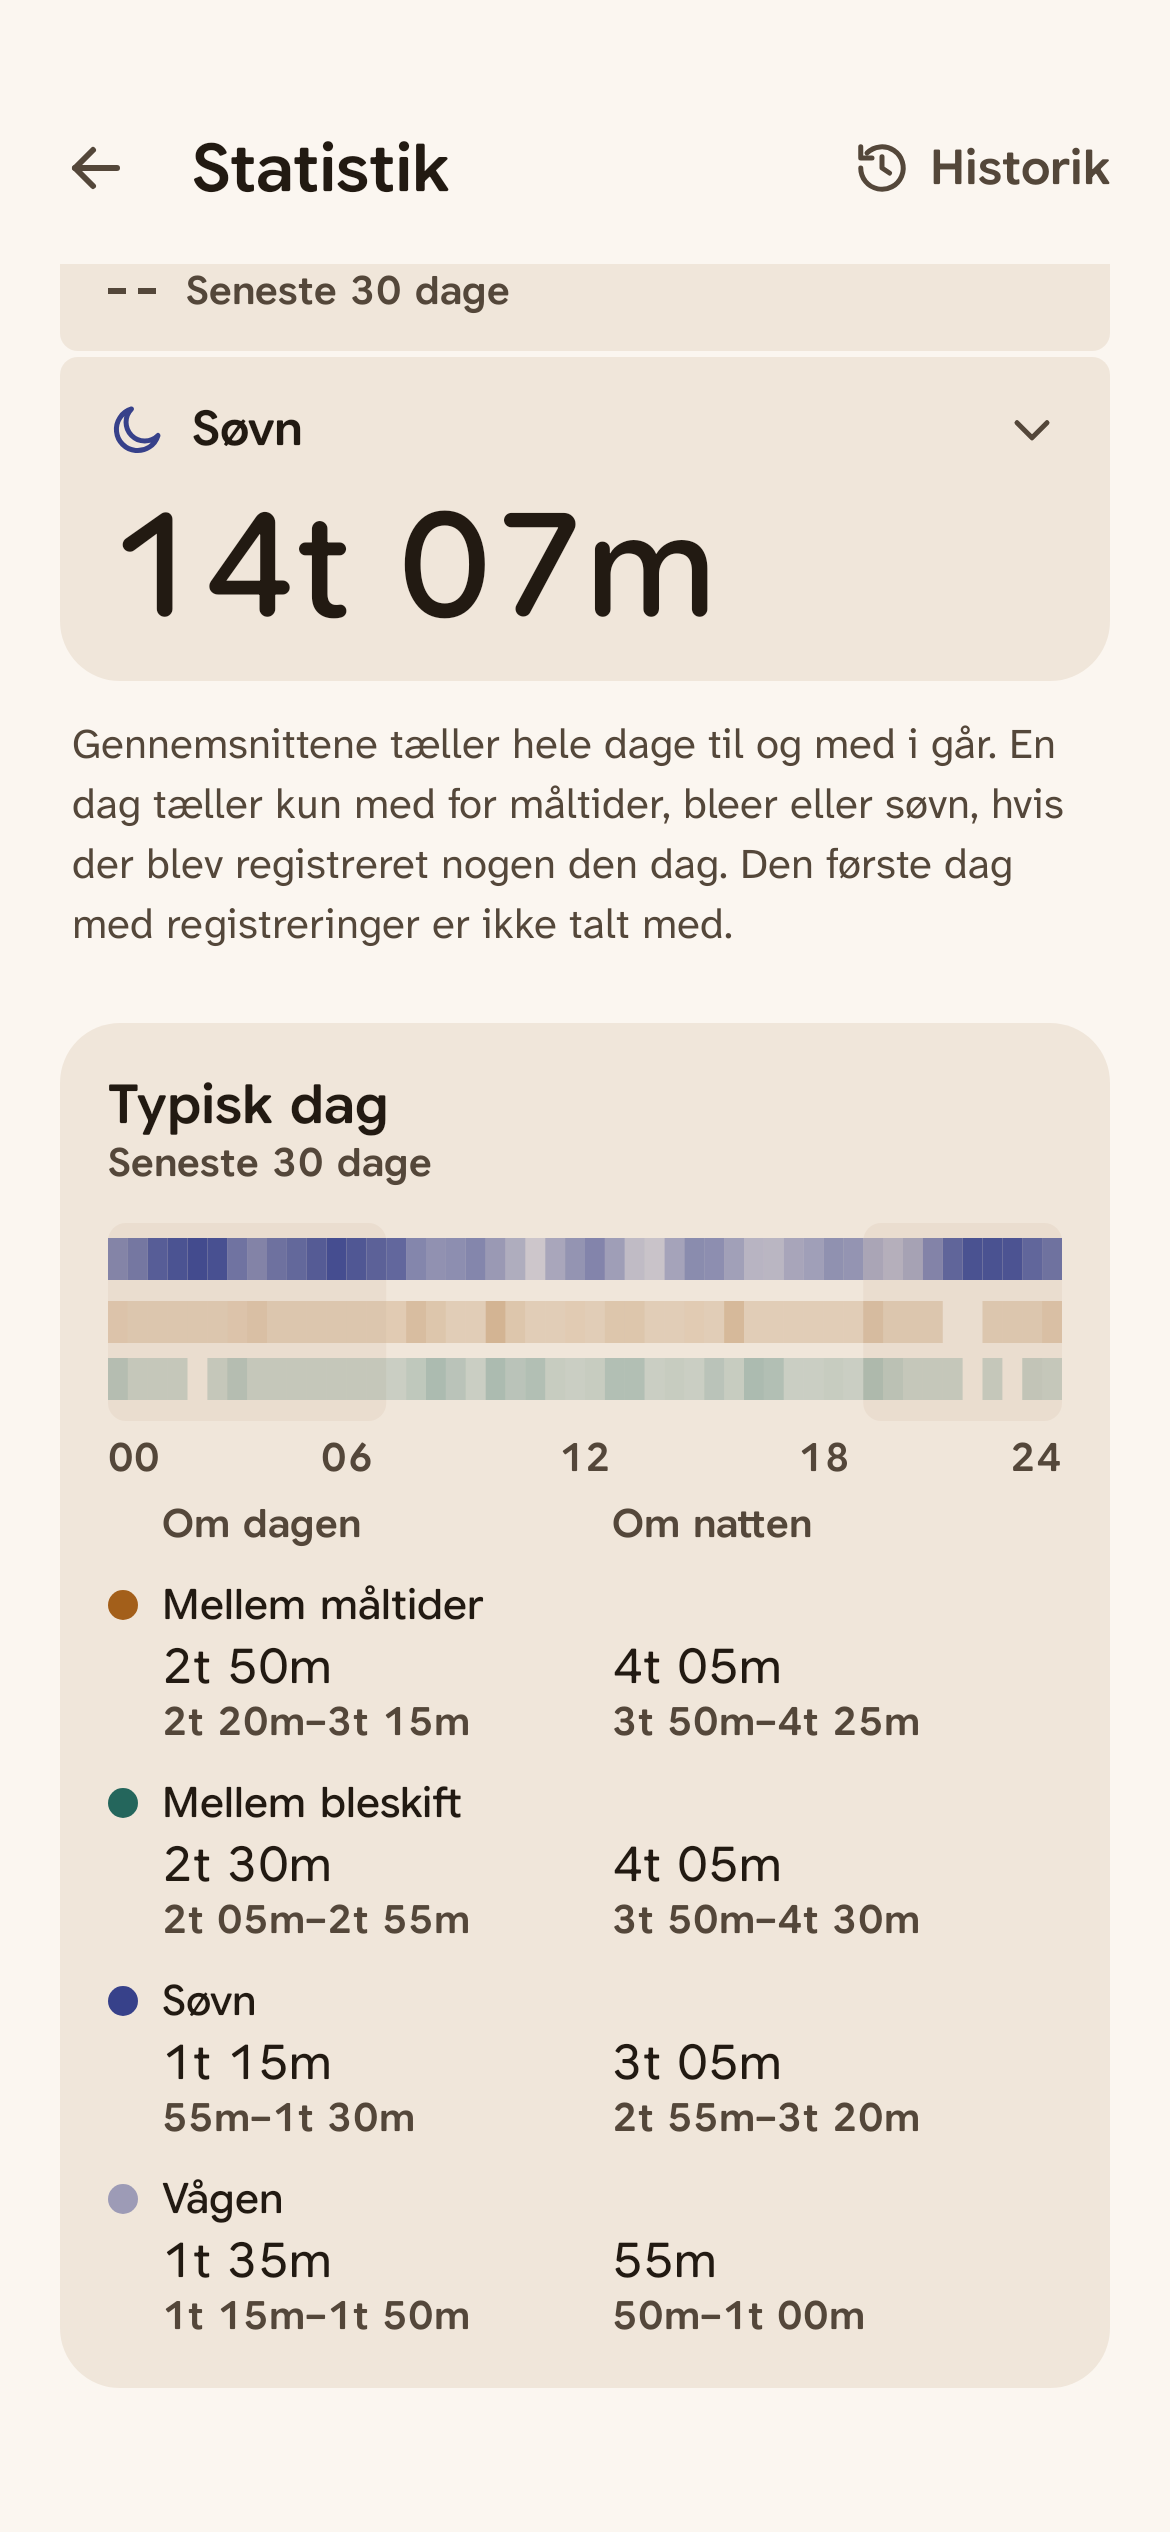
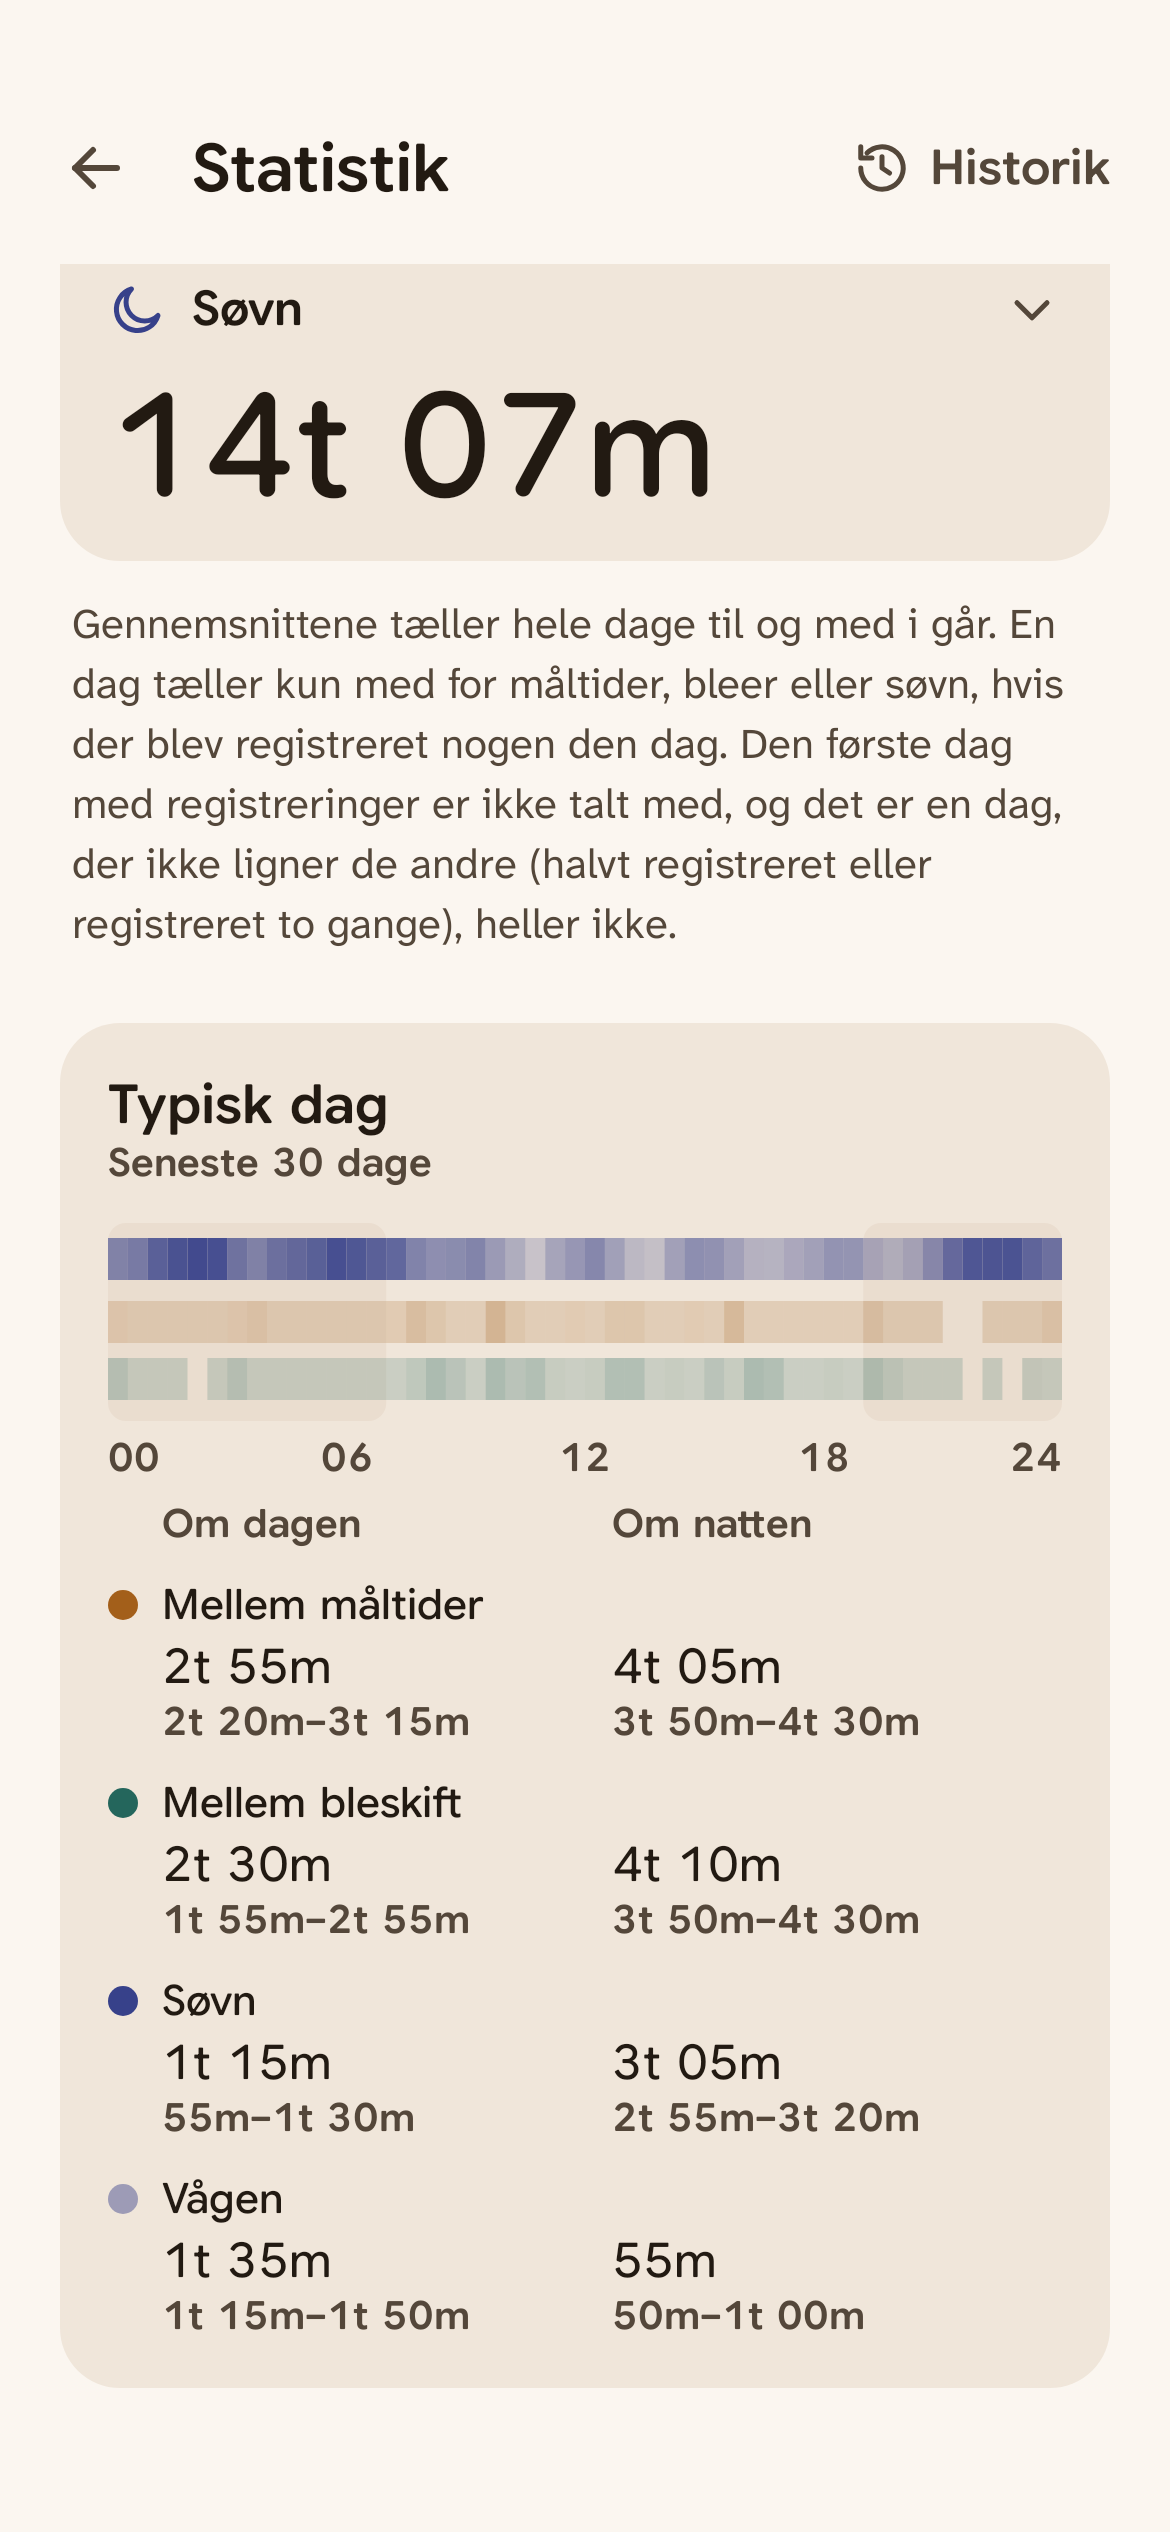
Record the unusual-day Statistics screenshot
Claude-Session: https://claude.ai/code/session_01KD7sVjuY25Bfh7DU3VvBbL

diff --git a/app/src/main/kotlin/com/ffmathy/pooparazzi/phone/ui/preview/StatisticsSamples.kt b/app/src/main/kotlin/com/ffmathy/pooparazzi/phone/ui/preview/StatisticsSamples.kt
@@ -75,8 +75,8 @@ object StatisticsSamples {
 
     /**
      * Feeds open over the last 30 days, with Sat 10 Oct logged only until 06:00 (half logged): unlike the other days for
-     * every kind, so its bar is grey and the averages leave it out (the same 7.1 · 7.6 · 1.8 · 14h 07m as
-     * [lastThirtyDays]), with the "Unusual day" legend and note.
+     * every kind, so its bar (1 feed) is grey and the averages leave it out: 7.1 · 7.5 · 1.8 · 14h 06m, with the
+     * "Unusual day" legend and note.
      */
     fun unusual(): StatisticsUiState = build(
         SampleData.history(zone = zone).filterNot { it.startMillis >= HALF_LOGGED_FROM && it.startMillis < HALF_LOGGED_UNTIL },

diff --git a/README.md b/README.md
@@ -73,7 +73,7 @@ All screenshots are rendered by the Roborazzi screenshot tests under Robolectric
 
 | Statistics, a bar pressed | Statistics, an unusual day |
 |:---:|:---:|
-| <img src="docs/screenshots/en/phone-statistics-bar.png" width="200" alt="Statistics with the highest poop bar pressed: the other bars fade, a guide marks its day, and its date and value show under it in place of the first and last dates"> | <img src="docs/screenshots/en/phone-statistics-unusual.png" width="200" alt="Statistics with Feeds open: a half-logged day's bar is grey and picked, reading Sat 10 Oct, 2, Unusual; the legend has Unusual day next to a grey bar, and a note says grey bars are days unlike the others, left out of the average"> |
+| <img src="docs/screenshots/en/phone-statistics-bar.png" width="200" alt="Statistics with the highest poop bar pressed: the other bars fade, a guide marks its day, and its date and value show under it in place of the first and last dates"> | <img src="docs/screenshots/en/phone-statistics-unusual.png" width="200" alt="Statistics with Feeds open: a half-logged day's bar is grey and picked, reading Sat 10 Oct, 1, Unusual; the legend has Unusual day next to a grey bar, and a note says grey bars are days unlike the others, left out of the average"> |
 
 #### Several babies and backup
 
